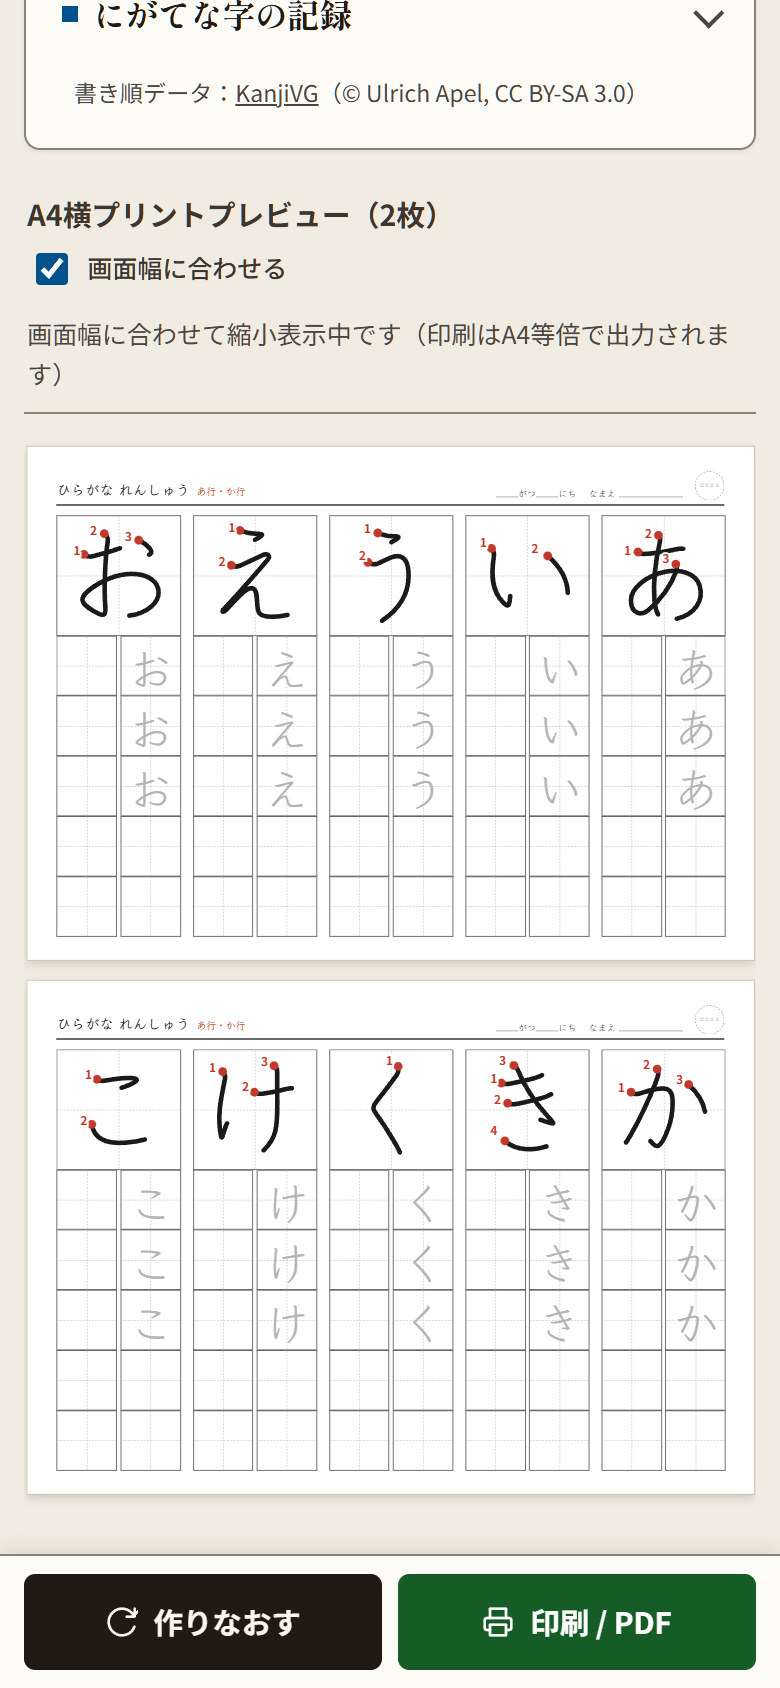
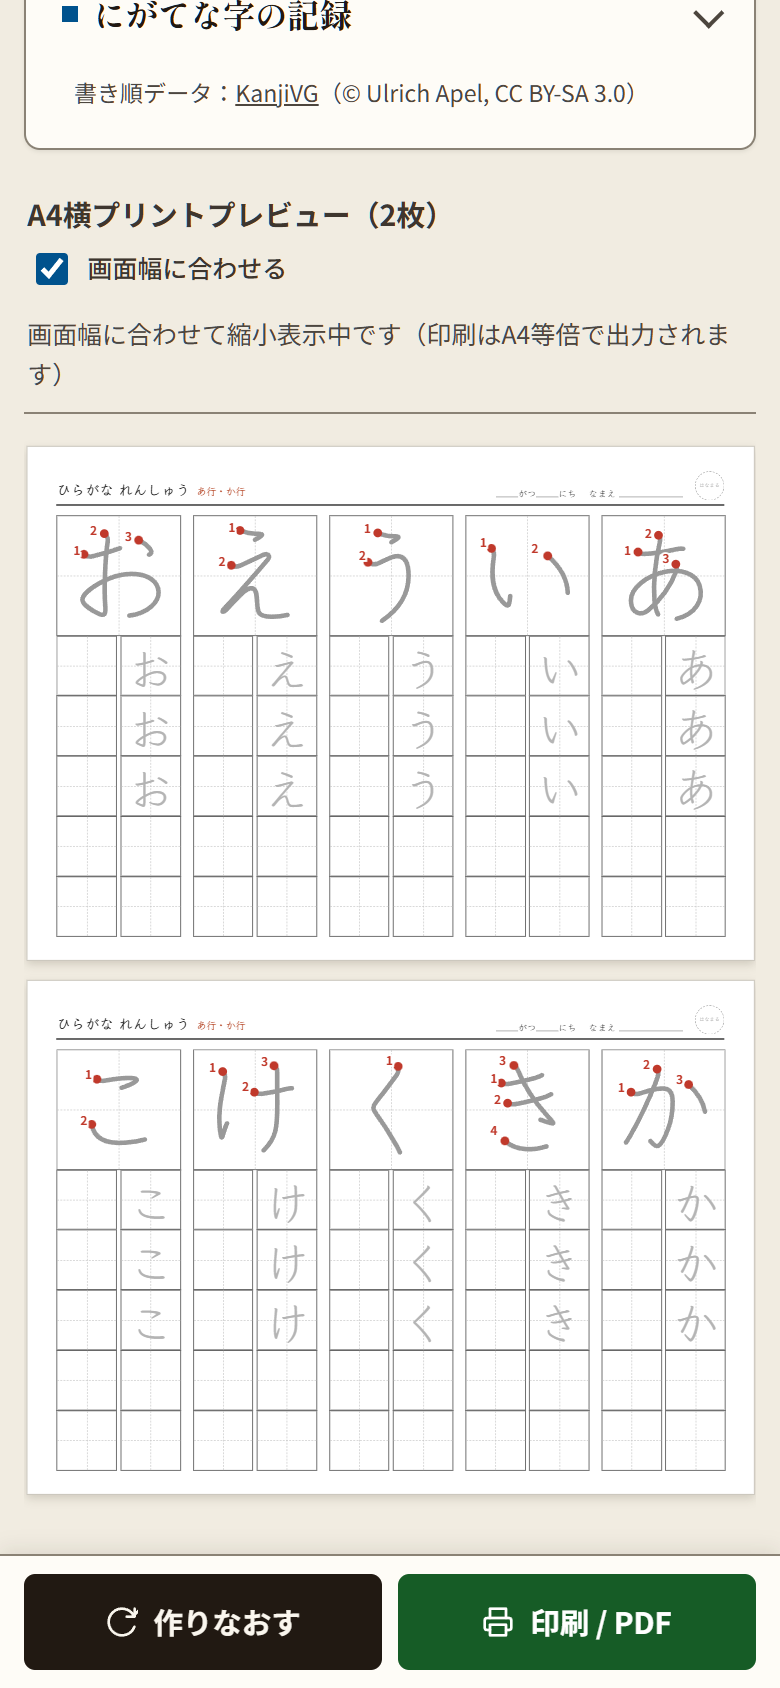
書き順つきの大きな手本をなぞれるうすい色にする
- 行れんしゅう・1もじじっくりの大きな手本の字をうすいグレー（#999999）にする
  （書き順の番号と書きはじめの●は赤のまま）
- にがてな字の説明を「書き順の番号つきの大きな字」に合わせる
- Service Worker のキャッシュ名を更新
- README のスクリーンショットを撮り直す

diff --git a/public/sheets.js b/public/sheets.js
@@ -2,7 +2,7 @@
 // 用紙はいつも A4 横、字は縦書きで右から左へ進む。縦書きは CSS の writing-mode に任せ、ここでは
 //   inline = 1列の長さ（上から下）、block = 列が積み重なる向きの長さ（右から左）
 // として割り付ける。寸法はすべて mm。
-import { cell, pictureCell, strokeGlyph, hasStrokes, strokeCount, traceColor, INK } from './render.js';
+import { cell, pictureCell, strokeGlyph, hasStrokes, strokeCount, traceColor, INK, BIG_MODEL } from './render.js';
 import { isSmall } from './kana.js';
 
 const PAD_X = 12;
@@ -231,7 +231,7 @@ function bigModelBlock(unit, dims, s, ctx, blankCols, traceCount) {
   // 大きな手本には、設定にかかわらず書き順の番号をすべて付ける
   const modelCtx = { ...ctx, strokeNumbers: true };
   chars.forEach(ch => {
-    const box = cell({ kind: 'model', ch, unit }, big, modelCtx);
+    const box = cell({ kind: 'model', ch, unit, color: BIG_MODEL }, big, modelCtx);
     box.style.blockSize = (big + GAP_IN) + 'mm';
     model.appendChild(box);
   });
@@ -341,12 +341,12 @@ function bigGlyphBox(ch, size, ctx) {
   box.style.setProperty('--cell', size + 'mm');
   box.dataset.unit = ch;
   if (hasStrokes(ch)) {
-    box.appendChild(strokeGlyph(ch, { numbers: true, startDots: ctx.startDots, width: 3.6, numberSize: 9 }));
+    box.appendChild(strokeGlyph(ch, { numbers: true, startDots: ctx.startDots, width: 3.6, numberSize: 9, color: BIG_MODEL }));
   } else {
     const span = document.createElement('span');
     span.className = 'glyph-text';
     span.textContent = ch;
-    span.style.color = INK;
+    span.style.color = BIG_MODEL;
     box.appendChild(span);
   }
   if (isSmall(ch)) box.firstChild.classList.add('v-small');

diff --git a/public/index.html b/public/index.html
@@ -318,7 +318,7 @@
     <details class="card settings-accordion" name="settings-menu">
       <summary class="card-title">にがてな字の記録</summary>
       <div class="card-body">
-        <div class="help-text">プレビューの手本（いちばん濃い字）をクリックすると印が付きます。書けなかった字に印を付けてから記録してください。</div>
+        <div class="help-text">プレビューの手本（書き順の番号つきの大きな字）をクリックすると印が付きます。書けなかった字に印を付けてから記録してください。</div>
         <button id="weakRecordBtn" class="btn btn-secondary btn-small" type="button" style="margin:.6rem 0;">印を付けた字を にがて として記録する</button>
         <div id="weakList"></div>
       </div>

diff --git a/public/render.js b/public/render.js
@@ -6,6 +6,8 @@ const SVG_NS = 'http://www.w3.org/2000/svg';
 const VIEW = 109; // KanjiVG の座標系
 
 export const INK = '#1a1a1a';
+// 書き順つきの大きな手本の色。上からなぞれるよう、なぞり字（#b4b4b4）より少し濃いうすい色にする
+export const BIG_MODEL = '#999999';
 const START_DOT = '#c0392b';
 
 export function hasStrokes(ch) { return Boolean(STROKES[ch]); }

diff --git a/public/sw.js b/public/sw.js
@@ -1,4 +1,4 @@
-const CACHE_NAME = 'hiragana-renshu-v7';
+const CACHE_NAME = 'hiragana-renshu-v8';
 const PRECACHE_URLS = [
   '/', '/index.html', '/style.css', '/app.js', '/store.js', '/kana.js', '/render.js', '/sheets.js',
   '/data/strokes.js', '/manifest.webmanifest', '/icons/hiragana.svg',

diff --git a/docs/USAGE.md b/docs/USAGE.md
@@ -55,7 +55,7 @@
 
 1文字ずつ練習します。1文字ごとに、次のように並びます。
 
-1. 右上に、**4マス分（2×2）の大きな手本**を1つ。書き順の番号がいつも全部付きます。
+1. 右上に、**4マス分（2×2）の大きな手本**を1つ。書き順の番号がいつも全部付きます。手本の字も上からなぞれるよう、うすいグレーです。
 2. 手本の下の右の列の上から、ふつうのマスで**うすいなぞり字**（「なぞる数」の数だけ。おすすめは3マス）。残りは空マス。
 3. 手本の下の左の列と、そこから左に続く列は、自分で書く**空マス**。
 
@@ -144,7 +144,7 @@
 
 ![にがてな字に印を付けた画面](screenshots/weak-mark.png)
 
-1. 子どもが練習したあと、プレビューで**書けなかった字の手本（いちばん濃い字）をクリック**します。赤い枠の印が付きます（もう一度クリックで外れます）。印は画面だけの表示で、印刷には出ません。
+1. 子どもが練習したあと、プレビューで**書けなかった字の手本（書き順の番号つきの大きな字）をクリック**します。赤い枠の印が付きます（もう一度クリックで外れます）。印は画面だけの表示で、印刷には出ません。
 2. 「にがてな字の記録」を開き、「**印を付けた字を にがて として記録する**」を押します。記録した回数と日時が一覧に残ります。
 3. 「練習する文字」→「文字のえらびかた」で「**にがてな字**」を選ぶと、記録した字だけのプリントが作れます。
 
